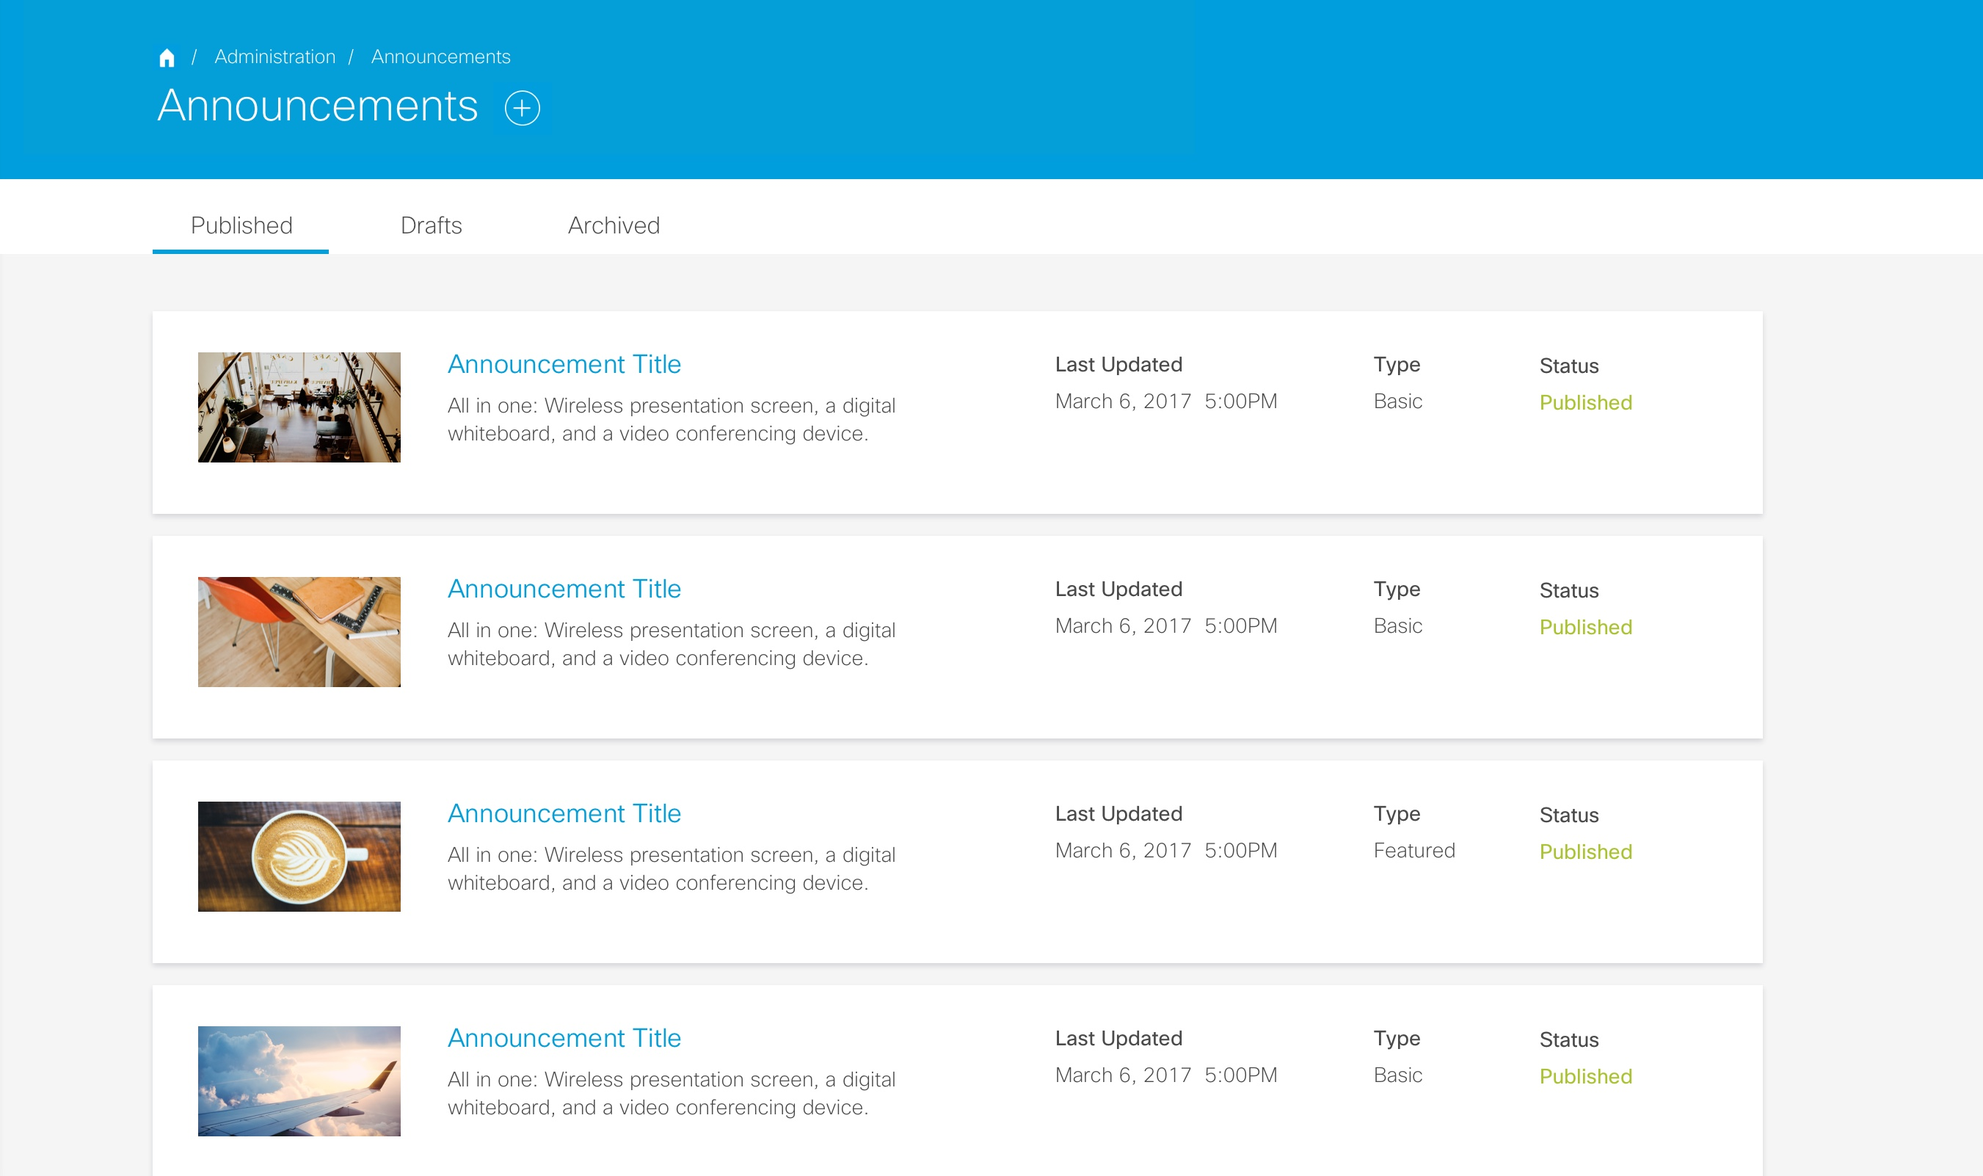
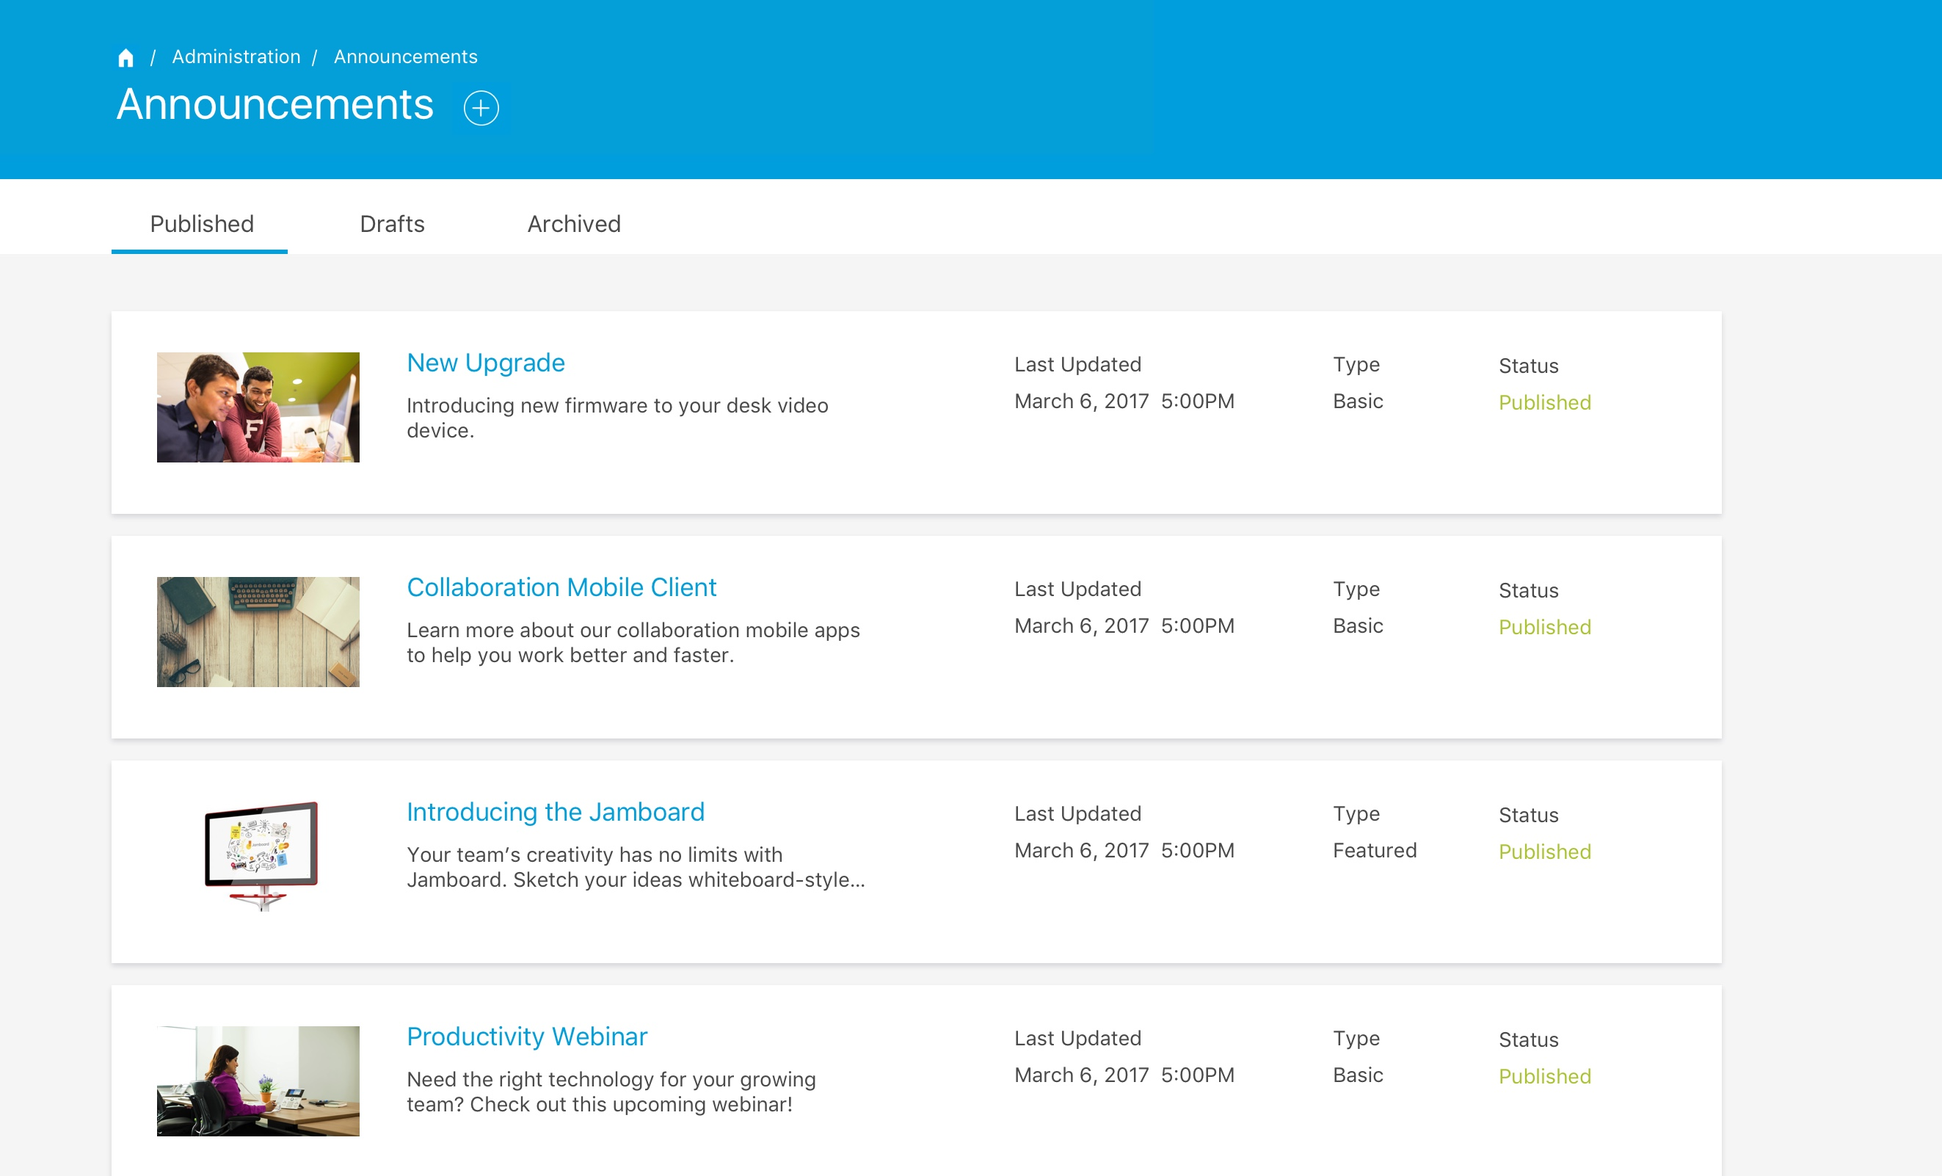
Edited announcements

diff --git a/AdminAnnouncements.html b/AdminAnnouncements.html
@@ -87,8 +87,8 @@
         <div class="row">
             <div class="col-md-2"></div>
             <div class="col-md-8">
-                <a class="fancybox" rel="group" href="/Projects/AdminAnnouncements/Title%20Page.png" title="">
-                    <img class="coverpic coverPos" src="/Projects/AdminAnnouncements/Title%20Page.png" alt="Title Cover">
+                <a class="fancybox" rel="group" href="/Projects/AdminAnnouncements/Title%20Page%202@2x.png" title="">
+                    <img class="coverpic coverPos" src="/Projects/AdminAnnouncements/Title%20Page%202@2x.png" alt="Title Cover">
                 </a>
                 
             </div>
@@ -97,19 +97,22 @@
         
         <!--    Topic Documentation       -->
         <section id="documentation">
-            <div class="col-md-2"></div>
-            <div class="col-md-8">
             <div class="topic">
                 <div class="row">
-                    <div class="col-md-12">
+                    <div class="col-md-2"></div>
+                    <div class="col-md-8">
                         <h5 class="txt info">
-                            Goal
+                            Summary
                         </h5>
                         <p class="sum txt">
                             Designed a solution for admins to create, edit, and manage announcements that appear on the home page.   
                         </p>
+                        <p class="sum txt">As the sole UX designer, I researched and designed both the CMS admin interface as well as the new look for the homepage. </p>
                     </div>
-                    <div class="col-md-12">
+                </div>
+                <div class="row">
+                    <div class="col-md-2"></div>
+                    <div class="col-md-8">
                         <h5 class="txt info">
                             Achievements
                         </h5>
@@ -127,132 +130,164 @@
             <!--    Beginning Content     -->
             <div class="topic">
                 <div class="row">
-                    <div class="col-md-12">
+                    <div class="col-md-2"></div>
+                    <div class="col-md-8">
                         <h3 class="txt">The Problem</h3>
+                        <div class="text txt">
+                            <p>My client's platform needed a serious facelift for the homepage. The service team wanted to be able to manage news and promote products for their employees to order, but the current process required the development team to manually do this in the back-end.
+                            </p>
+                            <p>This bottleneck cut productivity from the development team and also caused a long wait for the admins to see their requests go through.</p>
+                        </div>
                     </div>
                 </div>
                 <div class="row">
-                    <div class="col-md-12 text txt">
-                        <p>My client's collaboration learning platform needed a serious facelift for the homepage. The service team wanted to be able to manage news and other learning tools on the homepage for users to see, but the current process required the development team to manually do this through the database.
-                        </p>
-                        <p>This would take time away from the product team to manage verbiage, photos, and other content. Because of this, the former homepage (shown below) was very simple and above the fold, and did not have any indication of the website's purpose. </p>
-                    </div>
-                    <div class="col-md-12">
-                        <a class="fancybox" rel="group" href="/Projects/AdminAnnouncements/Old%20Homepage.png" title="">
-                        <img class="img-responsive iPhone" src="Projects/AdminAnnouncements/Old%20Homepage.png" alt="Old Homepage">
-                        </a>
-                    </div>
-                    <div class="col-md-12 text txt">
-                        <p>This two-sided problem turned into an opportunity to improve the experience for both the administrators and the users, so that admins can promote important news through the homepage, and the users can learn more about this collaboration platform.</p>
+                    <div class="col-md-2"></div>
+                    <div class="col-md-8 text txt">
+                        <p>This two-sided problem turned into an opportunity to improve the experience for both the administrators and the users, so that admins can promote important news through the homepage, and the users can learn more about the services available to them.</p>
                     </div>
                 </div>
             </div>
+        
+        
             <div class="topic">
                 <div class="row">
-                    <div class="col-md-12">
+                    <div class="col-md-2"></div>
+                    <div class="col-md-8">
                         <h3 class="txt">Design Goals</h3>
-                    </div>
-                </div>
-                <div class="row">
-                    <div class="col-md-12 text txt">
-                        <p>I first scoped out the problem to understand the effort, time, and needs from the service team. We met on a daily basis to discuss the requirements for the first iteration of the homepage and admin platform and narrowed them down to the following:</p>
-                        <p>
-                            <ul>
-                                <li>Admins are tasked with many responsibilities, and we wanted to give them a <span class="bold">simple and quick</span> method to handle just one of their daily activities so they can be as productive as possible.</li>
-                                <li>The new interface should <span class="bold">eliminate the time spent</span> discussing back and forth between the service and the development team to add a new announcement. The service team should be able to just do this themselves.
+                        <div class="text txt">
+                            <p>I met with the admins on a daily basis to discuss the requirements for both the homepage and the admin CMS:</p>
+                            <p>
+                                <ul>
+                                    <li>Admins are tasked with many other responsibilities, so this process must be <span class="bold">simple and quick</span>.</li>
+                                    <li>The new interface should give admins <span class="bold">control over content management</span>.
 </li>
-                                <li>The app should have a <span class="bold">full record</span> on all announcements created in the platform.</li>  
-                                <li>The homepage should include <span class="bold">important news and information</span> about collaboration, and be <span class="bold">easy to navigate.</span></li>
-                            </ul>
-                        </p>
+                                    <li>The app should have a <span class="bold">full record</span> on all announcements created in the platform.</li>  
+                                    <li>The homepage should include <span class="bold">important news and information</span> promoting its services and be <span class="bold">easy to navigate.</span></li>
+                                </ul>
+                            </p>
+                        </div>
                     </div>
                 </div>
             </div>
+    
+    
+    
             <div class="topic">
                 <div class="row">
-                    <div class="col-md-12">
+                    <div class="col-md-2"></div>
+                    <div class="col-md-8">
                         <h3 class="txt">Early Homepage Explorations</h3>
                     </div>
                 </div>
                 <div class="row">
-                    <div class="col-md-12 text txt">
-                        <p>I designed several iterations of the homepage announcements that would be located near the top of the screen.</p>
-                        <p>The design below was great for scanning all the news at once, but it felt too cluttered when placed in the layout of the page. There was too much text and it broke the flow of the page.</p>
-                    </div>
-                    <div class="col-md-12">
+                    <div class="col-md-1"></div>
+                    <div class="col-md-10">
                         <a class="fancybox" rel="group" href="/Projects/AdminAnnouncements/Featured%20News%20-%20V1.png" title="">
                         <img class="img-responsive iPhone" src="Projects/AdminAnnouncements/Featured%20News%20-%20V1.png" alt="Main1">
                         </a>
-                    </div>
-                    <div class="col-md-12 text txt">
-                        <p>The following design was great for pushing the news as part of the 'Welcome' text, but it was not practical for any more than 3 announcements. We considered arrows or navigation dots to indicate multiple sets of announcements, but it became a technical limitation when we discussed responsiveness. 
-</p>   
-                    </div>
-                    <div class="col-md-12">
                         <a class="fancybox" rel="group" href="/Projects/AdminAnnouncements/Featured%20News%20-%20V2.jpg" title="">
                         <img class="img-responsive iPhone" src="Projects/AdminAnnouncements/Featured%20News%20-%20V2.jpg" alt="Main1">
                         </a>
                     </div>
                 </div>
-            </div>
-                <div class="topic">
                 <div class="row">
-                    <div class="col-md-12">
+                    <div class="col-md-2"></div>
+                    <div class="col-md-8 text txt">
+                        <p>My initial concepts stayed above the fold, but had several limitations. They were easy to scan, but felt cluttered because too much content was competing for attention. I decided that flow, engaging users to explore the whole page, was the solution to simplicity.</p>
+<!--
+                        <p>The design above was great for scanning all the news at once, but it felt too cluttered when placed in the layout of the page. There was too much text and it broke the flow of the page.</p>
+                        <p>The following design was great for pushing the news as part of the 'Welcome' text, but it was not practical for any more than 3 announcements. We considered arrows or navigation dots to indicate multiple sets of announcements, but it became a technical limitation when we discussed responsiveness. 
+</p>   
+-->
+                    </div>
+                </div>
+            </div>
+    
+    
+             <div class="topic">
+                <div class="row">
+                    <div class="col-md-2"></div>
+                    <div class="col-md-8">
                         <h3 class="txt">Final Homepage</h3>
+                        <div class="text txt">
+                        <p>The final homepage design was one that was responsive, scannable and flowed well. It featured a carousel to house multiple announcements, and it was visible above-the-fold to help users smoothly transition down the page.</p>
+                        </div>
                     </div>
-                </div>
-                <div class="row">
-                    <div class="col-md-12 text txt">
-                        <p>The final homepage design was one that was responsive, scannable and worked with the flow of the page. It featured a carousel to house multiple announcements, and it was visible above-the-fold to help users smoothly transition down the page.</p>
-                    </div>
-                    <div class="col-md-12">
-                        <a class="fancybox" rel="group" href="/Projects/AdminAnnouncements/Homepage%20Screenshot.jpg" title="">
-                        <img class="img-responsive iPhone" src="Projects/AdminAnnouncements/Homepage%20Screenshot.jpg" alt="Main1">
+                 </div>
+                 <div class="row">
+                     <div class="col-md-1"></div>
+                    <div class="col-md-10">
+                        <a class="fancybox" rel="group" href="/Projects/AdminAnnouncements/Homepage%20Final@2x.png" title="">
+                        <img class="img-responsive iPhone" src="Projects/AdminAnnouncements/Homepage%20Final@2x.png" alt="Main1">
                         </a>
                     </div>
                 </div>
             </div>
+    
+    
             <div class="topic">
                 <div class="row">
-                    <div class="col-md-12">
+                    <div class="col-md-2"></div>
+                    <div class="col-md-8">
                         <h3 class="txt">Admin Functionality</h3>
+                        <div class="text txt">
+                            <p>Designing the admin CMS capable of handling numerous announcements was the bigger challenge. As I spent time iterating and testing, I worked with the team to determine the CMS constraints:</p>
+                                <ul>
+                                    <li>The team decided to <span class="bold">restrict stylistic control</span> since the admins' basic need was to just create and edit content. However, the design can allow for templating and layout creation for future phases.</li>
+                                    <li>There were specified <span class="bold">maximum character lengths</span> and photo resolution to for better readability.</li>
+                                    <li>After implementation, there were a few announcements posted with text wrapping, causing one card to be bigger than the others. In this case, the team decided to <span class="bold">match the card lengths</span> to the longest one.</li>
+                                </ul> 
+                        </div>
                     </div>
                 </div>
+                
                 <div class="row">
-                    <div class="col-md-12 text txt">
-                        <p>The next challenge was to design a CMS capable of handling numerous announcements. I iterated through the flow of the admin app (shown below), keeping the visual style consistent with the client's branding guidelines. After mapping out the screens, I built a <a href="https://invis.io/3JBLLAN49" target="_blank">quick prototype</a> to test with the admins.</p>
-                    </div>
-                    <div class="col-md-12">
-                        <a class="fancybox" rel="group" href="/Projects/AdminAnnouncements/Sketch%20Admin.png" title="">
-                            <img class="img-responsive iPhone" src="Projects/AdminAnnouncements/Sketch%20Admin.png" alt="Main1">
-                        </a>
-                    </div>
-                    <div class="col-md-12 text txt">
-                        <p>The admin app had to be very simple but powerful enough to handle any type of announcement on any page. The main page is divided by a list of published, drafts, and archived announcements. The admins have full capability to create, edit, publish, and delete announcements with this app, essentially eliminating the time spent requesting the development team to do this. 
-</p>
-                    </div>
-                    <div class="col-md-12">
-                        <a class="fancybox" rel="group" href="/Projects/AdminAnnouncements/2A.%20Announcement%20-%20Published.jpg" title="">
-                            <img class="img-responsive iPhone" src="Projects/AdminAnnouncements/2A.%20Announcement%20-%20Published.jpg" alt="Main1">
-                        </a>
-                        <a class="fancybox" rel="group" href="/Projects/AdminAnnouncements/5A.%20Edit%20Announcement%20Basic.jpg" title="">
-                            <img class="img-responsive iPhone" src="Projects/AdminAnnouncements/5A.%20Edit%20Announcement%20Basic.jpg" alt="Main1">
-                        </a>
+                    <div class="col-md-2"></div>
+                    <div class="col-md-8 text txt">
+                        
                     </div>
                 </div>
+                
             </div>
+        
             <div class="topic">
                 <div class="row">
-                    <div class="col-md-12">
-                        <h3 class="txt">Conclusion</h3>
+                    <div class="col-md-2"></div>
+                    <div class="col-md-8">
+                        <h3 class="txt">Implementation</h3>
+                        <div class="text txt">
+                            <p>The admin app had to be very simple but powerful enough to handle any type of announcement on any page. The main page is divided by a list of published, drafts, and archived announcements. The admins have full capability to create, edit, publish, and delete announcements with this app, essentially eliminating the time spent requesting the development team to do this. <a href="https://invis.io/3JBLLAN49" target="_blank">View Prototype</a>
+</p>
+                        </div>
                     </div>
                 </div>
                 <div class="row">
-                    <div class="col-md-12 text txt">
-                        <p>After multiple iterations of the homepage and the admin platform, the final solution turned out to be much simpler and more powerful than initially anticipated. The service team can now manage their own announcements quickly, and users can now learn more about the new offerings from the platform.</p>
+                    <div class="col-md-1"></div>
+                    <div class="col-md-10">
+                        <a class="fancybox" rel="group" href="/Projects/AdminAnnouncements/Announcements%20Schema.png" title="">
+                            <img class="img-responsive iPhone" src="Projects/AdminAnnouncements/Announcements%20Schema.png" alt="Main1">
+                        </a>
                     </div>
                 </div>
             </div>
+    
+    
+            <div class="topic">
+                <div class="row">
+                    <div class="col-md-2"></div>
+                    <div class="col-md-8">
+                        <h3 class="txt">Feedback</h3>
+                        <div class="text txt">
+                            <p>After the initial deployment, the average time spent on managing content reduced to 5 minutes, compared to the several days needed just to publish one announcement.</p>
+                            <p>Here's some feedback that will be implemented in the next phase:
+                                <ul>
+                                    <li>Automated archiving after a period of time so admins won't have to manually delete an outdated announcement</li>
+                                    <li>Linked service with knowledge base articles so that admins don't have to create the same announcement twice</li>
+                                </ul>
+                            </p>
+                        </div>
+                    </div>
+                </div>
             </div>
         </section>
         

diff --git a/index.html b/index.html
@@ -93,7 +93,7 @@
             <!-- Row 1-->
             <div class="col-md-4 portfolio-item">
                 <a class="imgwrap" href="#" onClick="return false";>
-                    <img class="img-responsive img-center" src="./Projects/AdminAnnouncements/Thumbnail.png" alt="Admin Announcements">
+                    <img class="img-responsive img-center" src="./Projects/AdminAnnouncements/Title%20Page%202@2x.png" alt="Admin Announcements">
                     
                 </a>
                 <p class="project-name">Admin Content Management</p>
@@ -103,7 +103,7 @@
                 <a class="imgwrap" href="/AdminProductCatalog.html">
                     <img class="img-responsive img-left" src="./Projects/AdminProductCatalog/Title%20Cover.png" alt="Product Catalog">        
                 </a>
-                <p class="project-name">Admin Product Catalog</p>
+                <p class="project-name">Product Catalog</p>
                     <p class="project-info">Admin Management App</p>
             </div>
             <div class="col-md-4 portfolio-item">
